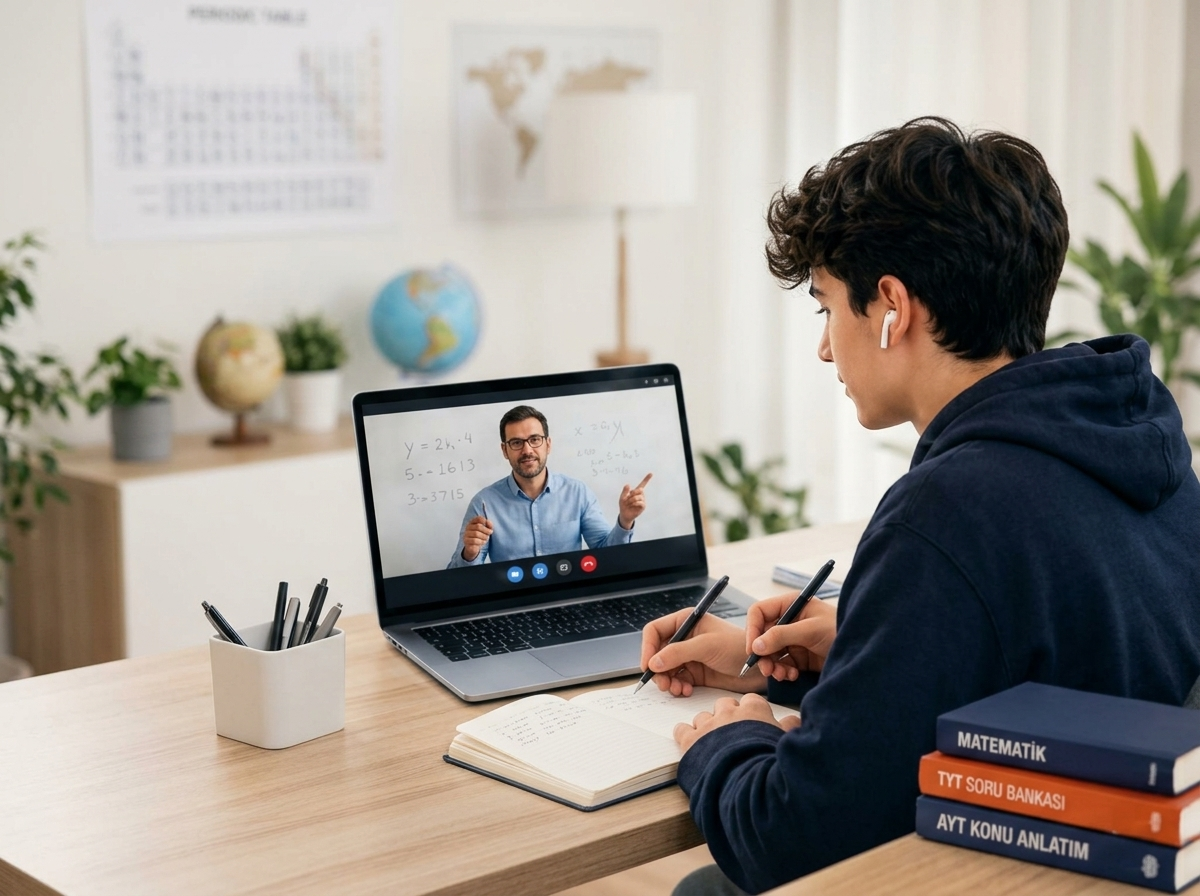
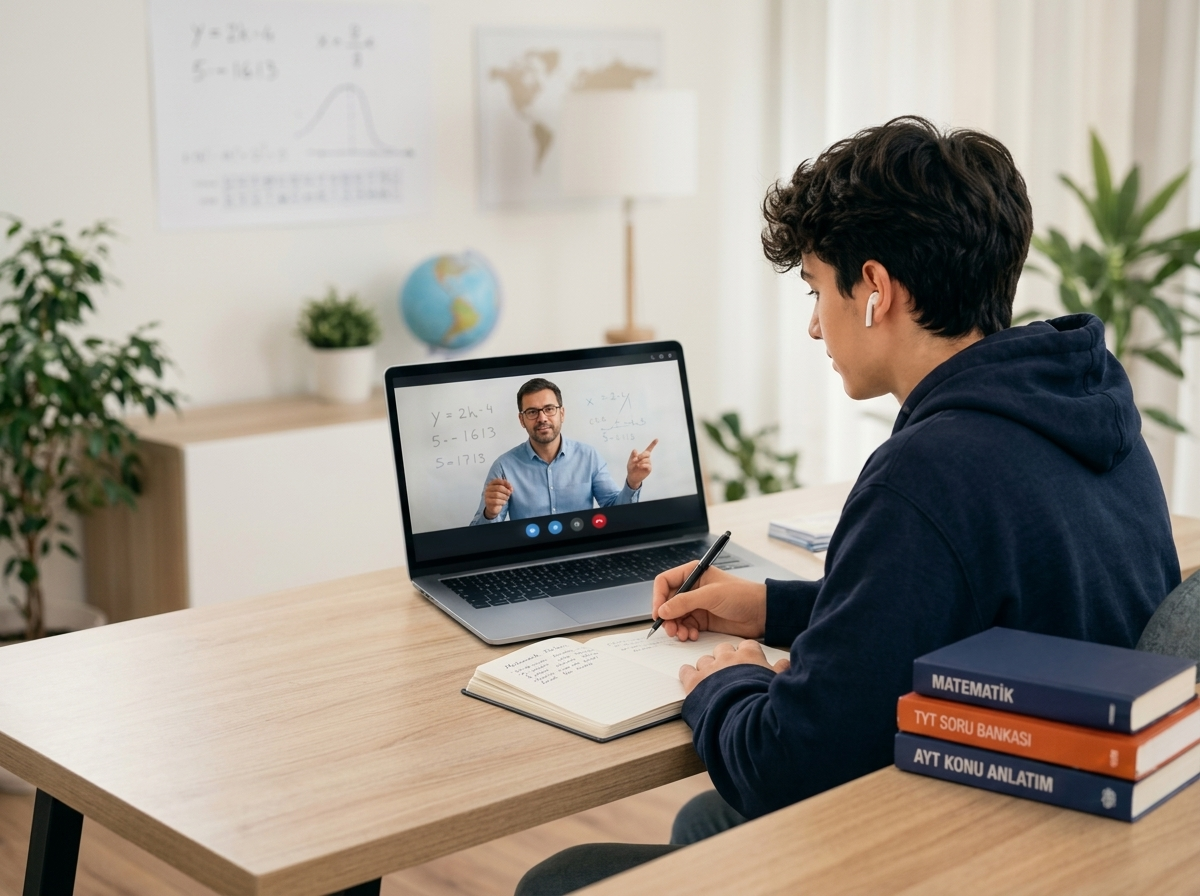
fix: replace hero image with anatomically correct student photo having exactly two hands

diff --git a/src/app/page.tsx b/src/app/page.tsx
@@ -183,7 +183,7 @@ export default async function HomePage() {
               {/* Ana Görsel: Temiz Öğrenci ve Laptop Arka Planı (Üzerinde Çakışan Yazı veya Kart Yoktur) */}
               <div className="relative w-full aspect-[4/3] rounded-3xl overflow-hidden shadow-2xl border-4 border-white bg-gradient-to-br from-slate-100 to-slate-200">
                 <Image
-                  src="/hero-student-clean.jpg"
+                  src="/hero-student-clean.jpg?v=2"
                   alt="Derslinex Online Özel Ders ve Canlı Takip"
                   fill
                   className="object-cover object-center"

diff --git a/src/app/admin/page.tsx b/src/app/admin/page.tsx
@@ -133,7 +133,7 @@ export default function AdminPage() {
       id: 1,
       title: "2026 YKS Hazırlık & Tanışma Programı",
       placement: "Üst Bant (Top Banner)",
-      imageUrl: "/hero-student-clean.jpg",
+      imageUrl: "/hero-student-clean.jpg?v=2",
       targetUrl: "/ogretmenler",
       status: "Aktif",
       clicks: 142,
